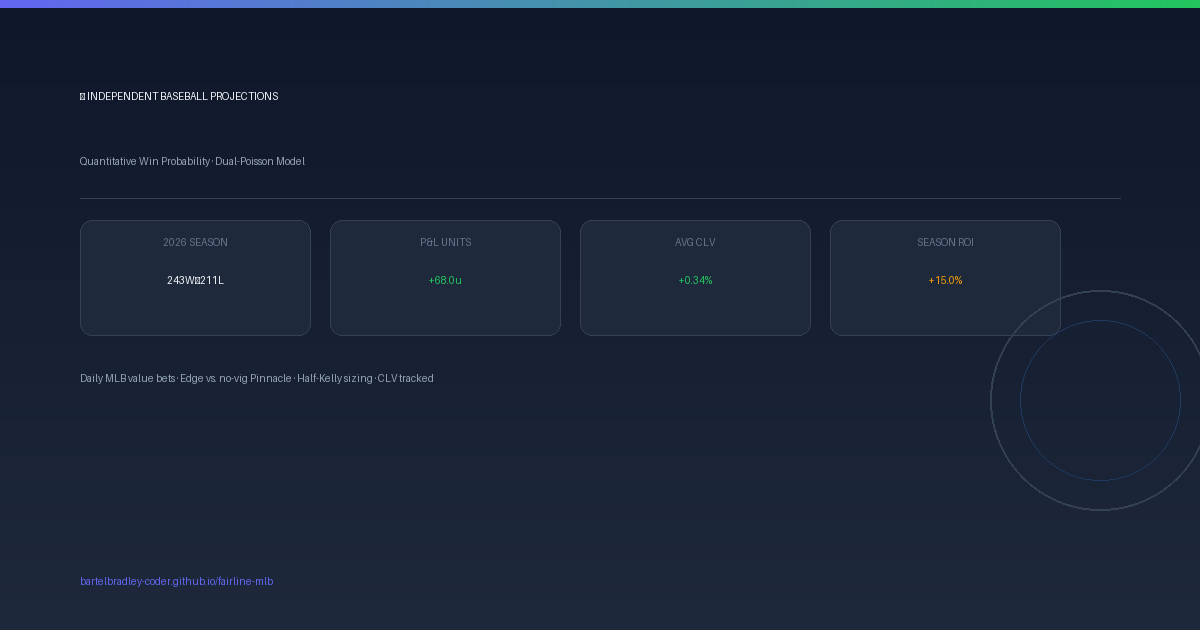
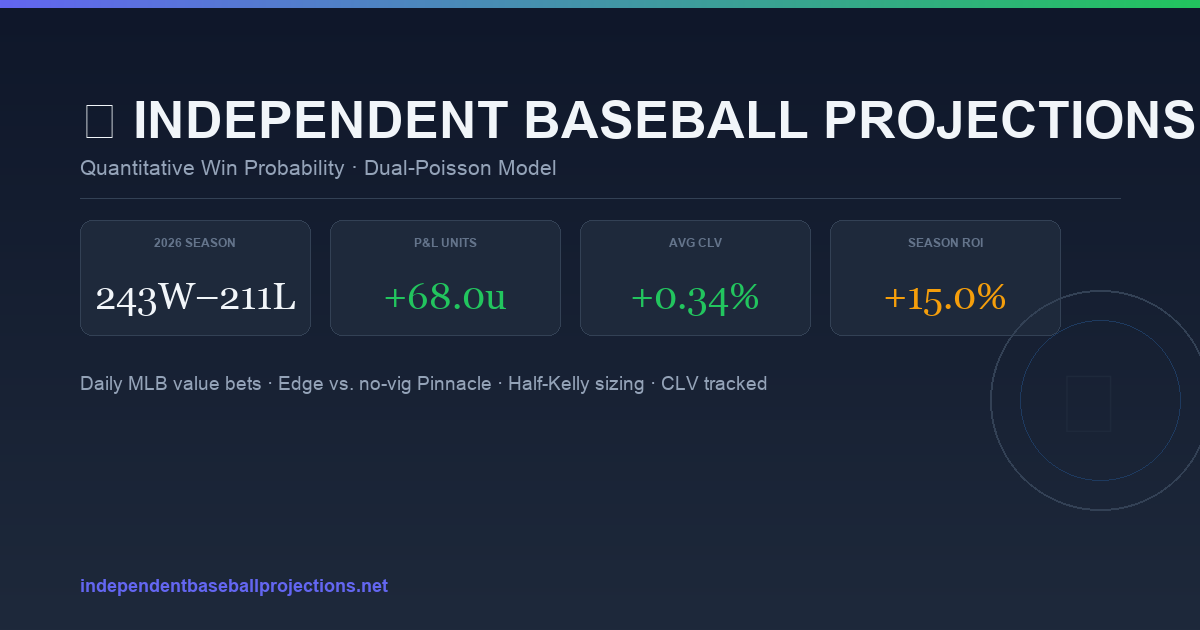
rebrand: remove all 'fairline' references from site
- rename localStorage keys fairline_* -> ibp_* (bankroll/unit_size/my_bets/visited)
- download filenames fairline-* -> ibp-* (share card png, history csv)
- old repo URLs (fairline-mlb.github.io) -> independentbaseballprojections.net (welcome email, OG image)
- regenerate og-image.png

diff --git a/index.html b/index.html
@@ -7,8 +7,8 @@
   /* Returning-visitor detection — runs before paint so the hero renders in its
      compact form on repeat visits (full landing band on first visit). */
   try {
-    if (localStorage.getItem('fairline_visited')) document.documentElement.classList.add('returning');
-    localStorage.setItem('fairline_visited', '1');
+    if (localStorage.getItem('ibp_visited')) document.documentElement.classList.add('returning');
+    localStorage.setItem('ibp_visited', '1');
   } catch (e) {}
 </script>
 <title>Independent Baseball Projections — Today's Picks</title>
@@ -2650,11 +2650,11 @@
 const picksMap = {};
 // _bankroll: user's total betting bankroll in dollars. Kelly dollar amounts are
 // calculated as kelly_units × bankroll / 100  (since 1 unit = bankroll / 100 = 1% of bankroll).
-let _bankroll = parseFloat(localStorage.getItem('fairline_bankroll') || '0');
+let _bankroll = parseFloat(localStorage.getItem('ibp_bankroll') || '0');
 // Legacy migration: if old unit-size key exists, convert it to bankroll (×10)
-if (!_bankroll && localStorage.getItem('fairline_unit_size')) {
-  _bankroll = parseFloat(localStorage.getItem('fairline_unit_size') || '0') * 10;
-  if (_bankroll > 0) localStorage.setItem('fairline_bankroll', String(_bankroll));
+if (!_bankroll && localStorage.getItem('ibp_unit_size')) {
+  _bankroll = parseFloat(localStorage.getItem('ibp_unit_size') || '0') * 10;
+  if (_bankroll > 0) localStorage.setItem('ibp_bankroll', String(_bankroll));
 }
 let _unitSize = _bankroll / 100;  // kept for any legacy references; derived from bankroll
 let _histRef  = null; // history data reference for tracker result lookup
@@ -3093,7 +3093,7 @@ async function downloadShareCard() {
     const p   = picksMap[_shareCardPickId] || {};
     const team = (p.pick || 'pick').replace(/\s/g, '-').toLowerCase();
     const link = document.createElement('a');
-    link.download = `fairline-${team}.png`;
+    link.download = `ibp-${team}.png`;
     link.href = canvas.toDataURL('image/png');
     link.click();
 
@@ -3141,7 +3141,7 @@ async function nativeShareCard() {
       if (!blob) { btn.disabled = false; btn.textContent = '⬆ Share Image'; return; }
       const p    = picksMap[_shareCardPickId] || {};
       const team = (p.pick || 'pick').replace(/\s/g, '-').toLowerCase();
-      const file = new File([blob], `fairline-${team}.png`, { type: 'image/png' });
+      const file = new File([blob], `ibp-${team}.png`, { type: 'image/png' });
       if (navigator.canShare && navigator.canShare({ files: [file] })) {
         try {
           await navigator.share({
@@ -3156,7 +3156,7 @@ async function nativeShareCard() {
       } else {
         // Fallback: download
         const link = document.createElement('a');
-        link.download = `fairline-${team}.png`;
+        link.download = `ibp-${team}.png`;
         link.href = URL.createObjectURL(blob);
         link.click();
         btn.textContent = '✓ Downloaded';
@@ -3189,7 +3189,7 @@ function shareAllPicks() {
 function _onBankrollChange(val) {
   _bankroll = parseFloat(val) || 0;
   _unitSize = _bankroll / 100;
-  localStorage.setItem('fairline_bankroll', String(_bankroll));
+  localStorage.setItem('ibp_bankroll', String(_bankroll));
   refreshKellyUSD();
   refreshPersonalTracker();
   _updateTotalDollarStat();   // update Total $ value in place
@@ -3382,7 +3382,7 @@ function computeStreak(hist) {
 }
 
 // ── "I bet this" personal tracker ────────────────────────────────────────────
-let _myBets = JSON.parse(localStorage.getItem('fairline_my_bets') || '{}');
+let _myBets = JSON.parse(localStorage.getItem('ibp_my_bets') || '{}');
 const _TODAY_KEY = new Date().toISOString().slice(0, 10);
 
 function toggleBet(id) {
@@ -3404,7 +3404,7 @@ function toggleBet(id) {
       delete _myBets[k];
     }
   }
-  localStorage.setItem('fairline_my_bets', JSON.stringify(_myBets));
+  localStorage.setItem('ibp_my_bets', JSON.stringify(_myBets));
   refreshBetButtons();
   refreshPersonalTracker();
 }

diff --git a/history.html b/history.html
@@ -404,12 +404,12 @@ let activeSearch = '';
 let activeThreshold = 0;   // minimum edge (0 = no filter)
 let activeSideFilter = 'all';  // 'all' | 'dog' | 'fav' | 'home' | 'away'
 let pnlMode = 'units';     // 'units' | 'kelly' | 'dollars'
-// Use fairline_bankroll (set on the Picks page). Legacy migration: if the old
-// fairline_unit_size key exists, convert it (unit_size × 10 = bankroll).
+// Use ibp_bankroll (set on the Picks page). Legacy migration: if the old
+// ibp_unit_size key exists, convert it (unit_size × 10 = bankroll).
 const _bankroll = (() => {
-  const b = parseFloat(localStorage.getItem('fairline_bankroll') || '0');
+  const b = parseFloat(localStorage.getItem('ibp_bankroll') || '0');
   if (b > 0) return b;
-  const u = parseFloat(localStorage.getItem('fairline_unit_size') || '0');
+  const u = parseFloat(localStorage.getItem('ibp_unit_size') || '0');
   return u > 0 ? u * 10 : 0;
 })();
 const _unitSize = _bankroll / 100;  // 1 unit = 1% of bankroll (100-unit convention)
@@ -792,7 +792,7 @@ function exportCSV() {
   const url  = URL.createObjectURL(blob);
   const a    = document.createElement('a');
   a.href     = url;
-  a.download = `fairline-picks-${new Date().toISOString().slice(0,10)}.csv`;
+  a.download = `ibp-picks-${new Date().toISOString().slice(0,10)}.csv`;
   a.click();
   URL.revokeObjectURL(url);
 }

diff --git a/generate_og_image.py b/generate_og_image.py
@@ -160,7 +160,7 @@ def generate(output_path=None):
 
     # ── URL ──────────────────────────────────────────────────────────────
     draw.text((80, 575),
-              'bartelbradley-coder.github.io/fairline-mlb',
+              'independentbaseballprojections.net',
               font=f_url, fill=INDIGO)
 
     # ── Baseball decoration (right side) ─────────────────────────────────